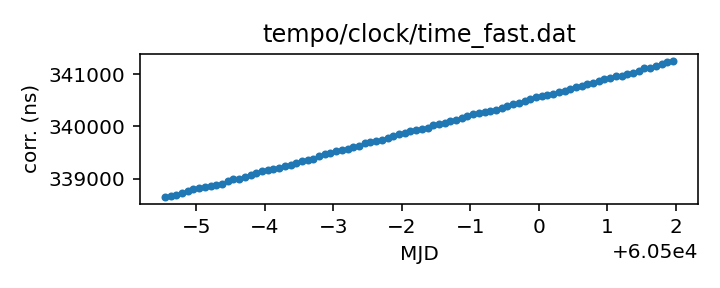
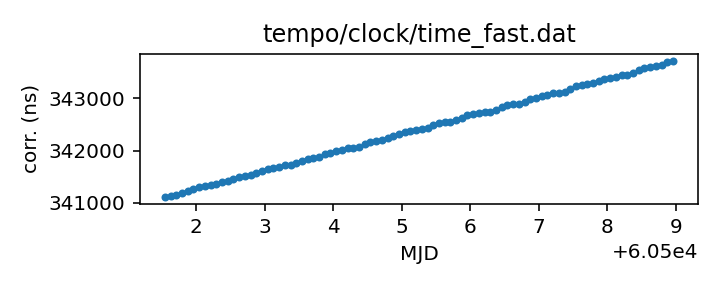
Routine gh-pages update from Github action Fri Jul 19 20:31:44 UTC 2024

diff --git a/status.md b/status.md
@@ -13,18 +13,18 @@ name of each clock file links to a page with more details.
 
 | Name | File | Corrections start | Corrections end | Last check date | Last check result 
 |:--- |:--- | --- | --- | --- |:--- 
-| [GPS to UTC](T2runtime/clock/gps2utc.clk.html) | `T2runtime/clock/gps2utc.clk` | 1993-01-01 MJD 48988.0 | 2024-04-29 MJD 60429.0 | 2024-07-18 | Unchanged 
-| [GPS to UTC (Combined Clock)](T2runtime/clock/gps2utc_cc.clk.html) | `T2runtime/clock/gps2utc_cc.clk` | 1993-01-01 MJD 48988.0 | 2024-04-29 MJD 60429.0 | 2024-07-18 | Unchanged 
-| [GPS to UTC (Corrected)](T2runtime/clock/gps2utc_c0p.clk.html) | `T2runtime/clock/gps2utc_c0p.clk` | 2010-12-29 MJD 55559.0 | 2024-04-29 MJD 60429.0 | 2024-07-18 | Unchanged 
-| [GBT](tempo/clock/time_gbt.dat.html) | `tempo/clock/time_gbt.dat` | 2000-12-31 MJD 51909.5 | 2024-05-18 MJD 60448.5 | 2024-07-18 | **Validation failed** 
+| [GPS to UTC](T2runtime/clock/gps2utc.clk.html) | `T2runtime/clock/gps2utc.clk` | 1993-01-01 MJD 48988.0 | 2024-04-29 MJD 60429.0 | 2024-07-19 | Unchanged 
+| [GPS to UTC (Combined Clock)](T2runtime/clock/gps2utc_cc.clk.html) | `T2runtime/clock/gps2utc_cc.clk` | 1993-01-01 MJD 48988.0 | 2024-04-29 MJD 60429.0 | 2024-07-19 | Unchanged 
+| [GPS to UTC (Corrected)](T2runtime/clock/gps2utc_c0p.clk.html) | `T2runtime/clock/gps2utc_c0p.clk` | 2010-12-29 MJD 55559.0 | 2024-04-29 MJD 60429.0 | 2024-07-19 | Unchanged 
+| [GBT](tempo/clock/time_gbt.dat.html) | `tempo/clock/time_gbt.dat` | 2000-12-31 MJD 51909.5 | 2024-05-18 MJD 60448.5 | 2024-07-19 | **Validation failed** 
 | [GBT (TEMPO2 converted from TEMPO)](T2runtime/clock/gbt2gps.clk.html) | `T2runtime/clock/gbt2gps.clk` | 2000-12-31 MJD 51909.5 | 2024-05-18 MJD 60448.5 | 2024-05-19 | Updated 
-| [Jodrell Bank](T2runtime/clock/jb2gps.clk.html) | `T2runtime/clock/jb2gps.clk` | 2006-10-13 MJD 54021.4 | 2023-12-04 MJD 60282.0 | 2024-07-12 | Unchanged 
-| [Jodrell Bank Roach](T2runtime/clock/jbroach2jb.clk.html) | `T2runtime/clock/jbroach2jb.clk` | 2006-10-13 MJD 54021.4 | 2018-03-20 MJD 58197.6 | 2024-07-12 | Unchanged 
-| [Jodrell Bank DFB](T2runtime/clock/jbdfb2jb.clk.html) | `T2runtime/clock/jbdfb2jb.clk` | 2006-10-13 MJD 54021.4 | 2017-05-11 MJD 57884.0 | 2024-07-12 | Unchanged 
-| [Meerkat (observatory)](T2runtime/clock/mk2utc_observatory.clk.html) | `T2runtime/clock/mk2utc_observatory.clk` | 2019-01-01 MJD 58484.0 | 2024-04-24 MJD 60425.0 | 2024-07-12 | Unchanged 
-| [Leap seconds](tempo/clock/leap.sec.html) | `tempo/clock/leap.sec` | 1972-07-01 MJD 41499.0 | 2017-01-01 MJD 57754.0 | 2024-07-18 | Unchanged 
-| [UT1 table](tempo/clock/ut1.dat.html) | `tempo/clock/ut1.dat` | 1973-01-02 MJD 41684.0 | 2025-07-26 MJD 60882.0 | 2024-07-18 | Updated 
-| [UT1 table](T2runtime/clock/ut1.dat.html) | `T2runtime/clock/ut1.dat` | 1973-01-02 MJD 41684.0 | 2025-07-26 MJD 60882.0 | 2024-07-18 | Updated 
+| [Jodrell Bank](T2runtime/clock/jb2gps.clk.html) | `T2runtime/clock/jb2gps.clk` | 2006-10-13 MJD 54021.4 | 2023-12-04 MJD 60282.0 | 2024-07-19 | Unchanged 
+| [Jodrell Bank Roach](T2runtime/clock/jbroach2jb.clk.html) | `T2runtime/clock/jbroach2jb.clk` | 2006-10-13 MJD 54021.4 | 2018-03-20 MJD 58197.6 | 2024-07-19 | Unchanged 
+| [Jodrell Bank DFB](T2runtime/clock/jbdfb2jb.clk.html) | `T2runtime/clock/jbdfb2jb.clk` | 2006-10-13 MJD 54021.4 | 2017-05-11 MJD 57884.0 | 2024-07-19 | Unchanged 
+| [Meerkat (observatory)](T2runtime/clock/mk2utc_observatory.clk.html) | `T2runtime/clock/mk2utc_observatory.clk` | 2019-01-01 MJD 58484.0 | 2024-04-24 MJD 60425.0 | 2024-07-19 | **Failed to download** 
+| [Leap seconds](tempo/clock/leap.sec.html) | `tempo/clock/leap.sec` | 1972-07-01 MJD 41499.0 | 2017-01-01 MJD 57754.0 | 2024-07-19 | Unchanged 
+| [UT1 table](tempo/clock/ut1.dat.html) | `tempo/clock/ut1.dat` | 1973-01-02 MJD 41684.0 | 2025-07-26 MJD 60882.0 | 2024-07-19 | Unchanged 
+| [UT1 table](T2runtime/clock/ut1.dat.html) | `T2runtime/clock/ut1.dat` | 1973-01-02 MJD 41684.0 | 2025-07-26 MJD 60882.0 | 2024-07-19 | Unchanged 
 
 
 
@@ -67,26 +67,26 @@ name of each clock file links to a page with more details.
 
 | Name | File | Corrections start | Corrections end | Last check date | Last check result 
 |:--- |:--- | --- | --- | --- |:--- 
-| [GPS to UTC (TEMPO2)](T2runtime/clock/gps2utc_tempo2.clk.html) | `T2runtime/clock/gps2utc_tempo2.clk` | 1996-03-27 MJD 50169.0 | 2022-10-27 MJD 59879.0 | 2024-07-12 | **Failed to download** 
-| [GBT (TEMPO2)](T2runtime/clock/gbt2gps_tempo2.clk.html) | `T2runtime/clock/gbt2gps_tempo2.clk` | 2000-12-31 MJD 51909.5 | 2020-02-25 MJD 58904.5 | 2024-07-12 | Unchanged 
-| [Jodrell Bank (TEMPO)](tempo/clock/time_jb.dat.html) | `tempo/clock/time_jb.dat` | 2006-10-13 MJD 54021.4 | 2019-05-13 MJD 58616.2 | 2024-07-12 | Unchanged 
-| [VLA](tempo/clock/time_vla.dat.html) | `tempo/clock/time_vla.dat` | 1990-10-27 MJD 48191.2 | 2021-03-07 MJD 59280.5 | 2024-07-12 | Unchanged 
-| [VLA (TEMPO2)](T2runtime/clock/vla2gps.clk.html) | `T2runtime/clock/vla2gps.clk` | 2015-02-01 MJD 57054.6 | 2021-03-07 MJD 59280.5 | 2024-07-12 | Unchanged 
-| [VLA to NIST](T2runtime/clock/vla2nist.clk.html) | `T2runtime/clock/vla2nist.clk` | 1990-10-27 MJD 48191.2 | 1993-11-13 MJD 49304.0 | 2024-07-12 | Unchanged 
-| [FAST](tempo/clock/time_fast.dat.html) | `tempo/clock/time_fast.dat` | 2017-07-27 MJD 57961.0 | 2024-07-10 MJD 60502.0 | 2024-07-12 | Updated 
-| [WSRT](T2runtime/clock/wsrt2gps.clk.html) | `T2runtime/clock/wsrt2gps.clk` | 1999-01-01 MJD 51179.5 | 2015-06-29 MJD 57202.1 | 2024-07-12 | Unchanged 
-| [WSRT (TEMPO)](tempo/clock/time_wsrt.dat.html) | `tempo/clock/time_wsrt.dat` | 1987-07-24 MJD 47000.0 | 2007-12-24 MJD 54458.0 | 2024-07-12 | **Validation failed** 
-| [Parkes](T2runtime/clock/pks2gps.clk.html) | `T2runtime/clock/pks2gps.clk` | 1858-11-17 MJD 0.0 | 2024-06-30 MJD 60491.1 | 2024-07-12 | Updated 
-| [Parkes (TEMPO)](tempo/clock/time_pks.dat.html) | `tempo/clock/time_pks.dat` | 1979-05-07 MJD 44000.0 | 2011-07-03 MJD 55745.8 | 2024-07-12 | **Validation failed** 
-| [SRT](T2runtime/clock/srt2gps.clk.html) | `T2runtime/clock/srt2gps.clk` | 2013-03-20 MJD 56371.0 | 2019-12-11 MJD 58828.0 | 2024-07-12 | Unchanged 
-| [Effelsberg](T2runtime/clock/eff2gps.clk.html) | `T2runtime/clock/eff2gps.clk` | 1993-11-29 MJD 49320.0 | 2015-06-22 MJD 57195.5 | 2024-07-12 | Unchanged 
-| [Effelsberg Asterix/PSRix](T2runtime/clock/effix2gps.clk.html) | `T2runtime/clock/effix2gps.clk` | 2011-01-01 MJD 55562.5 | 2021-03-21 MJD 59294.5 | 2024-07-12 | Unchanged 
-| [LEAP](T2runtime/clock/leap2effix.clk.html) | `T2runtime/clock/leap2effix.clk` | 2012-10-29 MJD 56230.0 | 2014-03-04 MJD 56720.0 | 2024-07-12 | Unchanged 
-| [NUPPI](tempo/clock/time_nuppi.dat.html) | `tempo/clock/time_nuppi.dat` | 2005-03-07 MJD 53436.0 | 2015-11-08 MJD 57334.6 | 2024-07-12 | Unchanged 
-| [Meerkat (TEMPO2)](T2runtime/clock/mk2utc.clk.html) | `T2runtime/clock/mk2utc.clk` | 2019-01-01 MJD 58484.0 | 2023-10-18 MJD 60235.9 | 2024-07-12 | Unchanged 
-| [MOST](T2runtime/clock/mo2gps.clk.html) | `T2runtime/clock/mo2gps.clk` | 2003-12-27 MJD 53000.0 | 2018-09-06 MJD 58367.0 | 2024-07-12 | Unchanged 
-| [Nancay to obspm](T2runtime/clock/ncyobs2obspm.clk.html) | `T2runtime/clock/ncyobs2obspm.clk` | 1988-05-18 MJD 47299.6 | 2023-10-27 MJD 60244.0 | 2024-07-12 | Unchanged 
-| [obspm](T2runtime/clock/obspm2gps.clk.html) | `T2runtime/clock/obspm2gps.clk` | 2003-12-01 MJD 52974.0 | 2023-10-27 MJD 60244.0 | 2024-07-12 | Unchanged 
+| [GPS to UTC (TEMPO2)](T2runtime/clock/gps2utc_tempo2.clk.html) | `T2runtime/clock/gps2utc_tempo2.clk` | 1996-03-27 MJD 50169.0 | 2022-10-27 MJD 59879.0 | 2024-07-19 | **Failed to download** 
+| [GBT (TEMPO2)](T2runtime/clock/gbt2gps_tempo2.clk.html) | `T2runtime/clock/gbt2gps_tempo2.clk` | 2000-12-31 MJD 51909.5 | 2020-02-25 MJD 58904.5 | 2024-07-19 | Unchanged 
+| [Jodrell Bank (TEMPO)](tempo/clock/time_jb.dat.html) | `tempo/clock/time_jb.dat` | 2006-10-13 MJD 54021.4 | 2019-05-13 MJD 58616.2 | 2024-07-19 | Unchanged 
+| [VLA](tempo/clock/time_vla.dat.html) | `tempo/clock/time_vla.dat` | 1990-10-27 MJD 48191.2 | 2021-03-07 MJD 59280.5 | 2024-07-19 | Unchanged 
+| [VLA (TEMPO2)](T2runtime/clock/vla2gps.clk.html) | `T2runtime/clock/vla2gps.clk` | 2015-02-01 MJD 57054.6 | 2021-03-07 MJD 59280.5 | 2024-07-19 | Unchanged 
+| [VLA to NIST](T2runtime/clock/vla2nist.clk.html) | `T2runtime/clock/vla2nist.clk` | 1990-10-27 MJD 48191.2 | 1993-11-13 MJD 49304.0 | 2024-07-19 | Unchanged 
+| [FAST](tempo/clock/time_fast.dat.html) | `tempo/clock/time_fast.dat` | 2017-07-27 MJD 57961.0 | 2024-07-17 MJD 60509.0 | 2024-07-19 | Updated 
+| [WSRT](T2runtime/clock/wsrt2gps.clk.html) | `T2runtime/clock/wsrt2gps.clk` | 1999-01-01 MJD 51179.5 | 2015-06-29 MJD 57202.1 | 2024-07-19 | Unchanged 
+| [WSRT (TEMPO)](tempo/clock/time_wsrt.dat.html) | `tempo/clock/time_wsrt.dat` | 1987-07-24 MJD 47000.0 | 2007-12-24 MJD 54458.0 | 2024-07-19 | **Validation failed** 
+| [Parkes](T2runtime/clock/pks2gps.clk.html) | `T2runtime/clock/pks2gps.clk` | 1858-11-17 MJD 0.0 | 2024-06-30 MJD 60491.1 | 2024-07-19 | Unchanged 
+| [Parkes (TEMPO)](tempo/clock/time_pks.dat.html) | `tempo/clock/time_pks.dat` | 1979-05-07 MJD 44000.0 | 2011-07-03 MJD 55745.8 | 2024-07-19 | **Validation failed** 
+| [SRT](T2runtime/clock/srt2gps.clk.html) | `T2runtime/clock/srt2gps.clk` | 2013-03-20 MJD 56371.0 | 2019-12-11 MJD 58828.0 | 2024-07-19 | Unchanged 
+| [Effelsberg](T2runtime/clock/eff2gps.clk.html) | `T2runtime/clock/eff2gps.clk` | 1993-11-29 MJD 49320.0 | 2015-06-22 MJD 57195.5 | 2024-07-19 | Unchanged 
+| [Effelsberg Asterix/PSRix](T2runtime/clock/effix2gps.clk.html) | `T2runtime/clock/effix2gps.clk` | 2011-01-01 MJD 55562.5 | 2021-03-21 MJD 59294.5 | 2024-07-19 | Unchanged 
+| [LEAP](T2runtime/clock/leap2effix.clk.html) | `T2runtime/clock/leap2effix.clk` | 2012-10-29 MJD 56230.0 | 2014-03-04 MJD 56720.0 | 2024-07-19 | Unchanged 
+| [NUPPI](tempo/clock/time_nuppi.dat.html) | `tempo/clock/time_nuppi.dat` | 2005-03-07 MJD 53436.0 | 2015-11-08 MJD 57334.6 | 2024-07-19 | Unchanged 
+| [Meerkat (TEMPO2)](T2runtime/clock/mk2utc.clk.html) | `T2runtime/clock/mk2utc.clk` | 2019-01-01 MJD 58484.0 | 2023-10-18 MJD 60235.9 | 2024-07-19 | Unchanged 
+| [MOST](T2runtime/clock/mo2gps.clk.html) | `T2runtime/clock/mo2gps.clk` | 2003-12-27 MJD 53000.0 | 2018-09-06 MJD 58367.0 | 2024-07-19 | Unchanged 
+| [Nancay to obspm](T2runtime/clock/ncyobs2obspm.clk.html) | `T2runtime/clock/ncyobs2obspm.clk` | 1988-05-18 MJD 47299.6 | 2023-10-27 MJD 60244.0 | 2024-07-19 | Unchanged 
+| [obspm](T2runtime/clock/obspm2gps.clk.html) | `T2runtime/clock/obspm2gps.clk` | 2003-12-01 MJD 52974.0 | 2023-10-27 MJD 60244.0 | 2024-07-19 | Unchanged 
 
 
 ### Further information:

diff --git a/tempo/clock/time_pks.dat.md b/tempo/clock/time_pks.dat.md
@@ -20,12 +20,11 @@ telescopes in the same file, distinguished only by observatory code.
 | Clock file start | 1979-05-07 MJD 44000.0 |
 | Clock file end | 2011-07-03 MJD 55745.8 |
 | Update interval (days) | 7 |
-| Last update attempt | 2024-07-12 |
+| Last update attempt | 2024-07-19 |
 | Last update result | Validation failed |
 
 Log entries from the last few update attempts:
 ```
-2024-05-10 20:29:42.293 - Validation failed: Unable to read new version of tempo/clock/time_pks.dat: Clock file /tmp/astropy-download-1806-pnu0rn0y appears to be out of order: 49959.0 > 49958.0
 2024-05-17 20:29:45.220 - Validation failed: Unable to read new version of tempo/clock/time_pks.dat: Clock file /tmp/astropy-download-1787-teivf2pi appears to be out of order: 49959.0 > 49958.0
 2024-05-24 20:29:37.029 - Validation failed: Unable to read new version of tempo/clock/time_pks.dat: Clock file /tmp/astropy-download-1896-lx9qc25x appears to be out of order: 49959.0 > 49958.0
 2024-05-31 20:29:34.723 - Validation failed: Unable to read new version of tempo/clock/time_pks.dat: Clock file /tmp/astropy-download-1808-9uv0anl1 appears to be out of order: 49959.0 > 49958.0
@@ -35,6 +34,7 @@ Log entries from the last few update attempts:
 2024-06-28 20:29:43.204 - Validation failed: Unable to read new version of tempo/clock/time_pks.dat: Clock file /tmp/astropy-download-1891-89y18t2_ appears to be out of order: 49959.0 > 49958.0
 2024-07-05 20:29:58.943 - Validation failed: Unable to read new version of tempo/clock/time_pks.dat: Clock file /tmp/astropy-download-1810-trqtm1kr appears to be out of order: 49959.0 > 49958.0
 2024-07-12 20:29:38.960 - Validation failed: Unable to read new version of tempo/clock/time_pks.dat: Clock file /tmp/astropy-download-1798-05ao87af appears to be out of order: 49959.0 > 49958.0
+2024-07-19 20:31:11.515 - Validation failed: Unable to read new version of tempo/clock/time_pks.dat: Clock file /tmp/astropy-download-1879-v7corvfs appears to be out of order: 49959.0 > 49958.0
 ```
 [Full log](https://raw.githubusercontent.com/ipta/pulsar-clock-corrections/main/log/tempo/clock/time_pks.dat.log)
 

diff --git a/tempo/clock/time_wsrt.dat.md b/tempo/clock/time_wsrt.dat.md
@@ -20,12 +20,11 @@ should be the same information.
 | Clock file start | 1987-07-24 MJD 47000.0 |
 | Clock file end | 2007-12-24 MJD 54458.0 |
 | Update interval (days) | 7 |
-| Last update attempt | 2024-07-12 |
+| Last update attempt | 2024-07-19 |
 | Last update result | Validation failed |
 
 Log entries from the last few update attempts:
 ```
-2024-05-10 20:29:38.436 - Validation failed: Unable to read new version of tempo/clock/time_wsrt.dat: Clock file /tmp/astropy-download-1806-0gvmq99j appears to be out of order: 53000.05 > 53000.0
 2024-05-17 20:29:41.596 - Validation failed: Unable to read new version of tempo/clock/time_wsrt.dat: Clock file /tmp/astropy-download-1787-h7p7w40s appears to be out of order: 53000.05 > 53000.0
 2024-05-24 20:29:31.949 - Validation failed: Unable to read new version of tempo/clock/time_wsrt.dat: Clock file /tmp/astropy-download-1896-o2eimvbo appears to be out of order: 53000.05 > 53000.0
 2024-05-31 20:29:29.819 - Validation failed: Unable to read new version of tempo/clock/time_wsrt.dat: Clock file /tmp/astropy-download-1808-s7arrwqh appears to be out of order: 53000.05 > 53000.0
@@ -35,6 +34,7 @@ Log entries from the last few update attempts:
 2024-06-28 20:29:38.470 - Validation failed: Unable to read new version of tempo/clock/time_wsrt.dat: Clock file /tmp/astropy-download-1891-katqx_gz appears to be out of order: 53000.05 > 53000.0
 2024-07-05 20:29:55.289 - Validation failed: Unable to read new version of tempo/clock/time_wsrt.dat: Clock file /tmp/astropy-download-1810-6x_oo0y2 appears to be out of order: 53000.05 > 53000.0
 2024-07-12 20:29:34.055 - Validation failed: Unable to read new version of tempo/clock/time_wsrt.dat: Clock file /tmp/astropy-download-1798-yen7urfq appears to be out of order: 53000.05 > 53000.0
+2024-07-19 20:31:07.763 - Validation failed: Unable to read new version of tempo/clock/time_wsrt.dat: Clock file /tmp/astropy-download-1879-ofamkhs8 appears to be out of order: 53000.05 > 53000.0
 ```
 [Full log](https://raw.githubusercontent.com/ipta/pulsar-clock-corrections/main/log/tempo/clock/time_wsrt.dat.log)
 

diff --git a/tempo/clock/time_gbt.dat.md b/tempo/clock/time_gbt.dat.md
@@ -33,12 +33,11 @@ If questions arise, contact Ryan S. Lynch <rlynch@nrao.edu>.
 | Clock file start | 2000-12-31 MJD 51909.5 |
 | Clock file end | 2024-05-18 MJD 60448.5 |
 | Update interval (days) | 1 |
-| Last update attempt | 2024-07-18 |
+| Last update attempt | 2024-07-19 |
 | Last update result | Validation failed |
 
 Log entries from the last few update attempts:
 ```
-2024-07-09 20:30:28.120 - Validation failed: New version of tempo/clock/time_gbt.dat clock corrections differ from old version where they overlap in 11 places
 2024-07-10 20:30:24.492 - Validation failed: New version of tempo/clock/time_gbt.dat clock corrections differ from old version where they overlap in 11 places
 2024-07-11 20:29:48.667 - Validation failed: New version of tempo/clock/time_gbt.dat clock corrections differ from old version where they overlap in 11 places
 2024-07-12 20:29:30.921 - Validation failed: New version of tempo/clock/time_gbt.dat clock corrections differ from old version where they overlap in 11 places
@@ -48,6 +47,7 @@ Log entries from the last few update attempts:
 2024-07-16 20:29:26.200 - Validation failed: New version of tempo/clock/time_gbt.dat clock corrections differ from old version where they overlap in 11 places
 2024-07-17 20:29:50.997 - Validation failed: New version of tempo/clock/time_gbt.dat clock corrections differ from old version where they overlap in 11 places
 2024-07-18 20:29:59.918 - Validation failed: New version of tempo/clock/time_gbt.dat clock corrections differ from old version where they overlap in 11 places
+2024-07-19 20:31:02.747 - Validation failed: New version of tempo/clock/time_gbt.dat clock corrections differ from old version where they overlap in 11 places
 ```
 [Full log](https://raw.githubusercontent.com/ipta/pulsar-clock-corrections/main/log/tempo/clock/time_gbt.dat.log)
 

diff --git a/T2runtime/clock/gps2utc_tempo2.clk.md b/T2runtime/clock/gps2utc_tempo2.clk.md
@@ -27,12 +27,11 @@ are from the column C0').
 | Clock file start | 1996-03-27 MJD 50169.0 |
 | Clock file end | 2022-10-27 MJD 59879.0 |
 | Update interval (days) | 7 |
-| Last update attempt | 2024-07-12 |
+| Last update attempt | 2024-07-19 |
 | Last update result | Failed to download |
 
 Log entries from the last few update attempts:
 ```
-2024-05-10 20:29:02.475 - Failed to download: HTTP Error 404: Not Found
 2024-05-17 20:29:05.507 - Failed to download: HTTP Error 404: Not Found
 2024-05-24 20:29:09.014 - Failed to download: HTTP Error 404: Not Found
 2024-05-31 20:29:06.760 - Failed to download: HTTP Error 404: Not Found
@@ -42,6 +41,7 @@ Log entries from the last few update attempts:
 2024-06-28 20:29:11.138 - Failed to download: HTTP Error 404: Not Found
 2024-07-05 20:29:14.464 - Failed to download: HTTP Error 404: Not Found
 2024-07-12 20:29:07.006 - Failed to download: HTTP Error 404: Not Found
+2024-07-19 20:30:26.761 - Failed to download: HTTP Error 404: Not Found
 ```
 [Full log](https://raw.githubusercontent.com/ipta/pulsar-clock-corrections/main/log/T2runtime/clock/gps2utc_tempo2.clk.log)
 

diff --git a/T2runtime/clock/mk2utc_observatory.clk.md b/T2runtime/clock/mk2utc_observatory.clk.md
@@ -21,12 +21,11 @@ If questions arise, contact Ryan Shannon <rshannon@swin.edu.au>
 | Clock file start | 2019-01-01 MJD 58484.0 |
 | Clock file end | 2024-04-24 MJD 60425.0 |
 | Update interval (days) | 7 |
-| Last update attempt | 2024-07-12 |
-| Last update result | Unchanged |
+| Last update attempt | 2024-07-19 |
+| Last update result | Failed to download |
 
 Log entries from the last few update attempts:
 ```
-2024-05-10 20:29:48.819 - Updated
 2024-05-17 20:29:50.578 - Unchanged
 2024-05-24 20:29:41.581 - Unchanged
 2024-05-31 20:29:41.668 - Unchanged
@@ -36,6 +35,7 @@ Log entries from the last few update attempts:
 2024-06-28 20:29:55.029 - Failed to download: <urlopen error _ssl.c:990: The handshake operation timed out>
 2024-07-05 20:30:07.740 - Unchanged
 2024-07-12 20:29:44.446 - Unchanged
+2024-07-19 20:31:14.053 - Failed to download: HTTP Error 403: Forbidden
 ```
 [Full log](https://raw.githubusercontent.com/ipta/pulsar-clock-corrections/main/log/T2runtime/clock/mk2utc_observatory.clk.log)
 

diff --git a/tempo/clock/time_fast.dat.md b/tempo/clock/time_fast.dat.md
@@ -14,14 +14,13 @@ This file is pulled from the FAST_ClockFile repository.
 | Format | tempo |
 | Bogus last correction | False |
 | Clock file start | 2017-07-27 MJD 57961.0 |
-| Clock file end | 2024-07-10 MJD 60502.0 |
+| Clock file end | 2024-07-17 MJD 60509.0 |
 | Update interval (days) | 7 |
-| Last update attempt | 2024-07-12 |
+| Last update attempt | 2024-07-19 |
 | Last update result | Updated |
 
 Log entries from the last few update attempts:
 ```
-2024-05-10 20:29:37.535 - Updated
 2024-05-17 20:29:40.999 - Updated
 2024-05-24 20:29:31.229 - Updated
 2024-05-31 20:29:29.072 - Updated
@@ -31,6 +30,7 @@ Log entries from the last few update attempts:
 2024-06-28 20:29:37.764 - Updated
 2024-07-05 20:29:54.615 - Updated
 2024-07-12 20:29:33.643 - Updated
+2024-07-19 20:31:06.912 - Updated
 ```
 [Full log](https://raw.githubusercontent.com/ipta/pulsar-clock-corrections/main/log/tempo/clock/time_fast.dat.log)
 

diff --git a/T2runtime/clock/gps2utc_c0p.clk.md b/T2runtime/clock/gps2utc_c0p.clk.md
@@ -30,12 +30,11 @@ about the BIPM's published corrections, contact <tai@bipm.org>.
 | Clock file start | 2010-12-29 MJD 55559.0 |
 | Clock file end | 2024-04-29 MJD 60429.0 |
 | Update interval (days) | 1 |
-| Last update attempt | 2024-07-18 |
+| Last update attempt | 2024-07-19 |
 | Last update result | Unchanged |
 
 Log entries from the last few update attempts:
 ```
-2024-07-09 20:30:27.234 - Unchanged
 2024-07-10 20:30:23.990 - Unchanged
 2024-07-11 20:29:48.145 - Unchanged
 2024-07-12 20:29:30.443 - Unchanged
@@ -45,6 +44,7 @@ Log entries from the last few update attempts:
 2024-07-16 20:29:25.931 - Unchanged
 2024-07-17 20:29:50.782 - Unchanged
 2024-07-18 20:29:59.607 - Unchanged
+2024-07-19 20:31:01.777 - Unchanged
 ```
 [Full log](https://raw.githubusercontent.com/ipta/pulsar-clock-corrections/main/log/T2runtime/clock/gps2utc_c0p.clk.log)
 

diff --git a/T2runtime/clock/gps2utc_cc.clk.md b/T2runtime/clock/gps2utc_cc.clk.md
@@ -29,12 +29,11 @@ about the BIPM's published corrections, contact <tai@bipm.org>.
 | Clock file start | 1993-01-01 MJD 48988.0 |
 | Clock file end | 2024-04-29 MJD 60429.0 |
 | Update interval (days) | 1 |
-| Last update attempt | 2024-07-18 |
+| Last update attempt | 2024-07-19 |
 | Last update result | Unchanged |
 
 Log entries from the last few update attempts:
 ```
-2024-07-09 20:30:27.223 - Unchanged
 2024-07-10 20:30:23.978 - Unchanged
 2024-07-11 20:29:48.134 - Unchanged
 2024-07-12 20:29:30.431 - Unchanged
@@ -44,6 +43,7 @@ Log entries from the last few update attempts:
 2024-07-16 20:29:25.920 - Unchanged
 2024-07-17 20:29:50.771 - Unchanged
 2024-07-18 20:29:59.596 - Unchanged
+2024-07-19 20:31:01.764 - Unchanged
 ```
 [Full log](https://raw.githubusercontent.com/ipta/pulsar-clock-corrections/main/log/T2runtime/clock/gps2utc_cc.clk.log)
 

diff --git a/T2runtime/clock/gps2utc.clk.md b/T2runtime/clock/gps2utc.clk.md
@@ -32,12 +32,11 @@ about the BIPM's published corrections, contact <tai@bipm.org>.
 | Clock file start | 1993-01-01 MJD 48988.0 |
 | Clock file end | 2024-04-29 MJD 60429.0 |
 | Update interval (days) | 1 |
-| Last update attempt | 2024-07-18 |
+| Last update attempt | 2024-07-19 |
 | Last update result | Unchanged |
 
 Log entries from the last few update attempts:
 ```
-2024-07-09 20:30:27.195 - Unchanged
 2024-07-10 20:30:23.949 - Unchanged
 2024-07-11 20:29:48.106 - Unchanged
 2024-07-12 20:29:30.403 - Unchanged
@@ -47,6 +46,7 @@ Log entries from the last few update attempts:
 2024-07-16 20:29:25.892 - Unchanged
 2024-07-17 20:29:50.742 - Unchanged
 2024-07-18 20:29:59.567 - Unchanged
+2024-07-19 20:31:01.734 - Unchanged
 ```
 [Full log](https://raw.githubusercontent.com/ipta/pulsar-clock-corrections/main/log/T2runtime/clock/gps2utc.clk.log)
 

diff --git a/T2runtime/clock/ut1.dat.md b/T2runtime/clock/ut1.dat.md
@@ -30,12 +30,11 @@ If there are any questions, contact Anne Archibald
 | File start | 1973-01-02 MJD 41684.0 |
 | File end | 2025-07-26 MJD 60882.0 |
 | Update interval (days) | 0 |
-| Last update attempt | 2024-07-18 |
-| Last update result | Updated |
+| Last update attempt | 2024-07-19 |
+| Last update result | Unchanged |
 
 Log entries from the last few update attempts:
 ```
-2024-07-09 20:30:42.080 - Unchanged
 2024-07-10 20:30:33.818 - Unchanged
 2024-07-11 20:29:58.806 - Updated
 2024-07-12 20:29:53.740 - Unchanged
@@ -45,5 +44,6 @@ Log entries from the last few update attempts:
 2024-07-16 20:29:33.973 - Unchanged
 2024-07-17 20:29:59.490 - Unchanged
 2024-07-18 20:30:07.656 - Updated
+2024-07-19 20:31:28.263 - Unchanged
 ```
 [Full log](https://raw.githubusercontent.com/ipta/pulsar-clock-corrections/main/log/T2runtime/clock/ut1.dat.log)

diff --git a/T2runtime/clock/ncyobs2obspm.clk.md b/T2runtime/clock/ncyobs2obspm.clk.md
@@ -22,12 +22,11 @@ thus here) can be expected to be somewhat up to date.
 | Clock file start | 1988-05-18 MJD 47299.6 |
 | Clock file end | 2023-10-27 MJD 60244.0 |
 | Update interval (days) | 7 |
-| Last update attempt | 2024-07-12 |
+| Last update attempt | 2024-07-19 |
 | Last update result | Unchanged |
 
 Log entries from the last few update attempts:
 ```
-2024-05-10 20:29:51.147 - Unchanged
 2024-05-17 20:29:52.144 - Unchanged
 2024-05-24 20:29:42.191 - Unchanged
 2024-05-31 20:29:42.384 - Unchanged
@@ -37,6 +36,7 @@ Log entries from the last few update attempts:
 2024-06-28 20:29:56.006 - Unchanged
 2024-07-05 20:30:09.528 - Unchanged
 2024-07-12 20:29:45.234 - Unchanged
+2024-07-19 20:31:15.066 - Unchanged
 ```
 [Full log](https://raw.githubusercontent.com/ipta/pulsar-clock-corrections/main/log/T2runtime/clock/ncyobs2obspm.clk.log)
 
